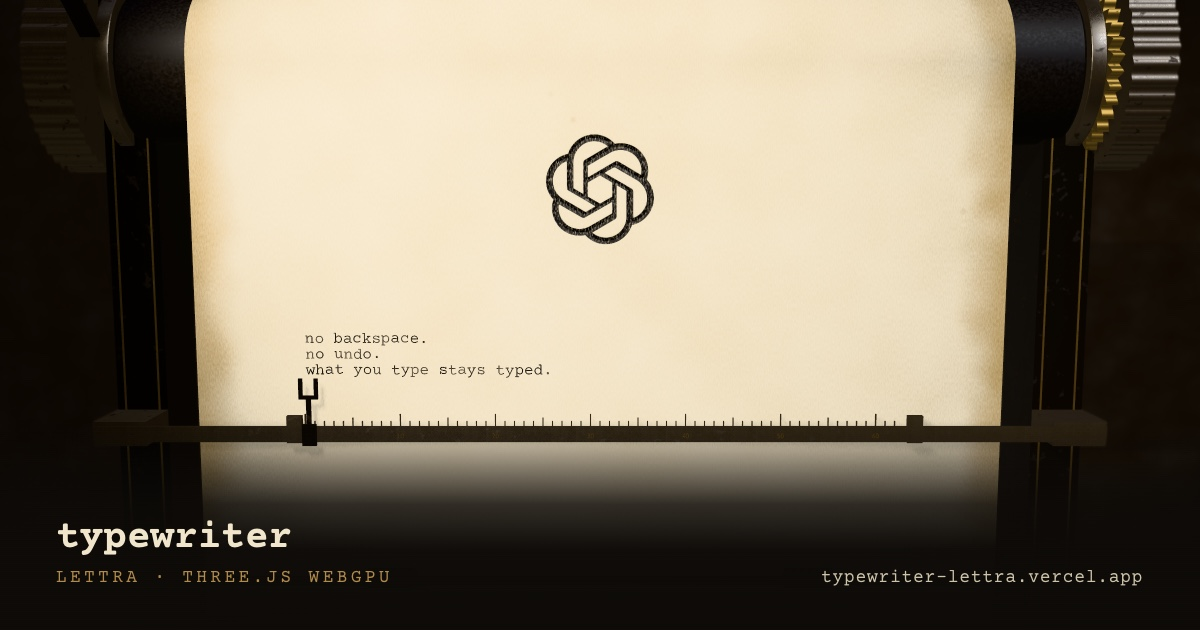
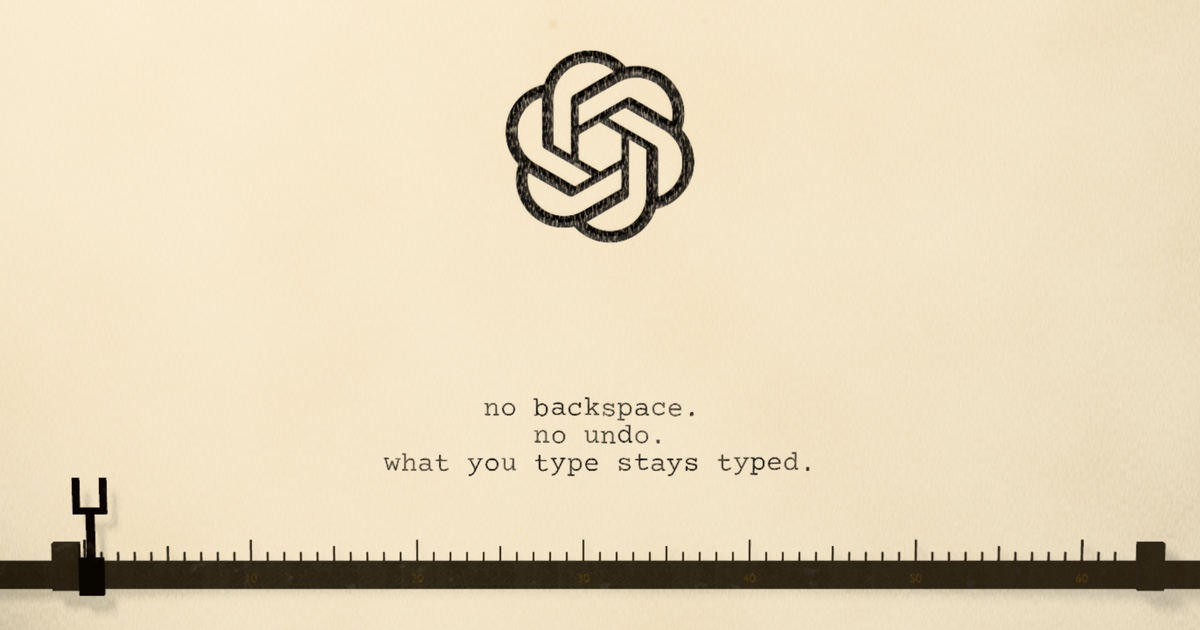
fix: share image puts the typed message first, and leading spaces indent
The share card was a wide shot of the whole machine with a footer laid over
it. At the size X shows it (about 500px wide) the typed lines were 5px tall
and the logo was the subject. It is now a close shot of the page: the
letterhead at the top, "no backspace. no undo. what you type stays typed."
centred and readable in the feed, the type guide and scale along the bottom.
The name and URL are gone from the image; the platforms print both under
the card.

Centring those lines exposed a bug on the site: lettra's layout drops
leading whitespace, so a line started with spaces was drawn at the margin
while the type guide sat columns further in. Lines are now offset by their
leading spaces (leadingColumns in the core, with tests).

diff --git a/src/core/typewriter-machine.test.ts b/src/core/typewriter-machine.test.ts
@@ -7,6 +7,7 @@ import {
   createState,
   currentLine,
   isPrintable,
+  leadingColumns,
   strike,
   type TypewriterConfig,
 } from "./typewriter-machine";
@@ -97,5 +98,19 @@ describe("immutability", () => {
 
     expect(before.lines).toEqual(["abc"]);
     expect(carriageColumn(before)).toBe(3);
+  });
+});
+
+describe("leadingColumns", () => {
+  it("counts the spaces struck before the first character", () => {
+    expect(leadingColumns("   hello")).toBe(3);
+  });
+
+  it("is zero for a line that starts at the margin", () => {
+    expect(leadingColumns("hello  world")).toBe(0);
+  });
+
+  it("covers the whole line when it is only spaces", () => {
+    expect(leadingColumns("    ")).toBe(4);
   });
 });

diff --git a/src/gl/line-geometry.ts b/src/gl/line-geometry.ts
@@ -10,7 +10,7 @@ import { layout, type LayoutResult, type MSDFFont } from "lettra";
 import { buildTextGeometry } from "lettra/three";
 import type { BufferGeometry } from "three/webgpu";
 
-import type { Line } from "@/core/typewriter-machine";
+import { leadingColumns, type Line } from "@/core/typewriter-machine";
 import {
   CHAR_WIDTH,
   INK_LIFT,
@@ -69,8 +69,9 @@ export const buildLineGeometry = (
     glyphIndexOf: (glyph) => glyph.index,
   });
 
+  // lettra's layout drops leading whitespace; the carriage did not.
   geometry.translate(
-    LEFT_MARGIN - SHEET_WIDTH / 2,
+    LEFT_MARGIN - SHEET_WIDTH / 2 + leadingColumns(line) * CHAR_WIDTH,
     lineBaselineY(lineNumber),
     INK_LIFT,
   );

diff --git a/src/core/typewriter-machine.ts b/src/core/typewriter-machine.ts
@@ -77,6 +77,11 @@ export const carriageReturn = (state: TypewriterState): TypewriterState => ({
   lines: [...state.lines, ""],
 });
 
+/** Columns the carriage moved with the space bar before the first character
+ * of a line. Every space is a column, at the start of a line as anywhere. */
+export const leadingColumns = (line: Line): number =>
+  line.length - line.trimStart().length;
+
 /** A `KeyboardEvent.key` that stands for a character rather than a command.
  * Named keys ("Enter", "ArrowLeft") are longer than one code point. */
 export const isPrintable = (key: string): boolean =>
